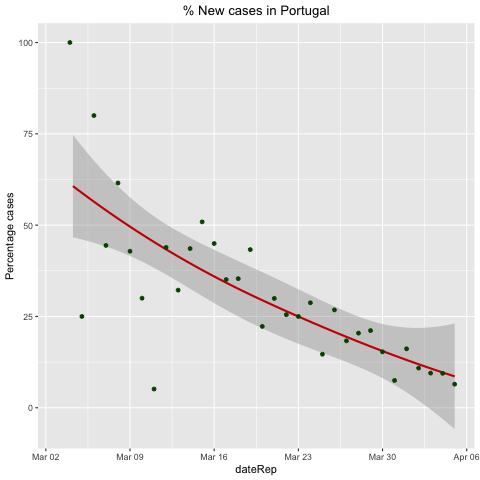
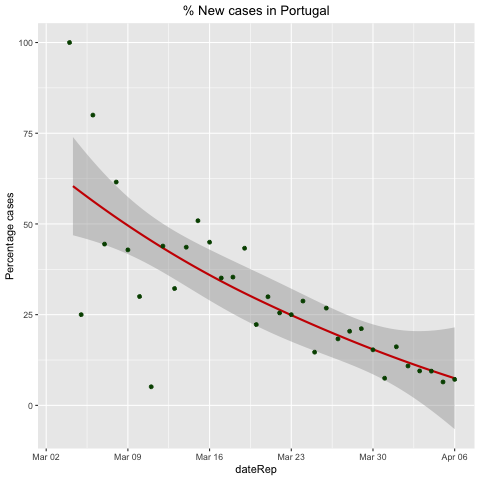
Daily update and changes on the graph windows. Threshold for max cases recogn in portugal.

diff --git a/README.md b/README.md
@@ -11,29 +11,29 @@ I'll keep this repo with the graphs daily updated.
 
 *Obtained with the script* `propagationMap.R`
 
-### Updated World Values - 2020/04/05
+### Updated World Values - 2020/04/06
 __Total Deaths per Country - worst 10__
 
 |geoId | deaths|
 |:-----|------:|
-|IT    |  15362|
-|ES    |  11744|
-|US    |   8501|
-|FR    |   7560|
-|UK    |   4313|
-|IR    |   3452|
-|CN    |   3333|
+|IT    |  15889|
+|ES    |  12418|
+|US    |   9647|
+|FR    |   8078|
+|UK    |   4934|
+|IR    |   3603|
+|CN    |   3335|
 |NL    |   1651|
-|DE    |   1342|
-|BE    |   1283|
+|BE    |   1447|
+|DE    |   1434|
 
-__Total Death Count__: 64400
+__Total Death Count__: 68976
 
-__Portugal in Detail at 2020/04/05__ *sourced from https://www.worldometers.info/*
+__Portugal in Detail at 2020/04/06__ *sourced from https://www.worldometers.info/*
 
 |Country,Other |TotalCases |NewCases |TotalDeaths |NewDeaths |TotalRecovered |ActiveCases |Serious,Critical |Tot Cases/1M pop | Deaths/1M pop|TotalTests |Tests/1M pop |
 |:-------------|:----------|:--------|:-----------|:---------|:--------------|:-----------|:----------------|:----------------|-------------:|:----------|:------------|
-|Portugal      |11,278     |+754     |295         |+29       |75             |10,908      |267              |1,106            |            29|86,370     |8,470        |
+|Portugal      |11,730     |+452     |311         |+16       |140            |11,279      |270              |1,150            |            31|91,794     |9,002        |
 
 
 ### Scripts
